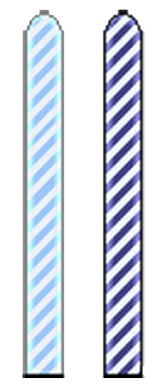
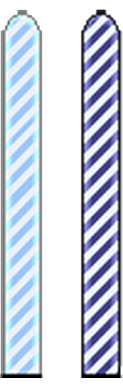
Adjusted size of finishline

diff --git a/Obstacles/FinishLine.java b/Obstacles/FinishLine.java
@@ -25,8 +25,8 @@ public class FinishLine extends Obstacle
 	 */
 	public FinishLine(int x, int y, Game game)
 	{
-		super(x,y,160,384,true,true, game, new ImageIcon("Images\\FinishLine.png"));
-		barX = x+33;
+		super(x,y,123,384,true,true, game, new ImageIcon("Images\\FinishLine.png"));
+		barX = x;
 		barY = y+50;
 		barVelY = 3;
 		bar = new ImageIcon("Images\\FinishBar.png");
@@ -37,12 +37,12 @@ public class FinishLine extends Obstacle
 	 */
 	public Rectangle getBarBounds()
 	{
-		return new Rectangle(barX+5,barY+6,width/2-10,20);
+		return new Rectangle(barX+10,barY+6,(int)(width/1.5)-10,20);
 	}
 	@Override
 	public Rectangle getBounds()
 	{
-		return new Rectangle(x+(width/2)-30,y,width/2,height);
+		return new Rectangle(x,y,width,height);
 	}
 	/**
 	 * Moves the bar every time the Game loops, goes in the opposite direction when it gets to the top or bottom 

diff --git a/Game/Area.java b/Game/Area.java
@@ -259,7 +259,7 @@ public class Area
 	 				}
 	 				if(red == 255 && green == 0 && blue == 255)
 	 				{
-	 					area.addObstacle(new FinishLine(x*32,y*32-390,g));
+	 					area.addObstacle(new FinishLine(x*32,y*32-375,g));
 	 				}
 	 			}
 	 		}
